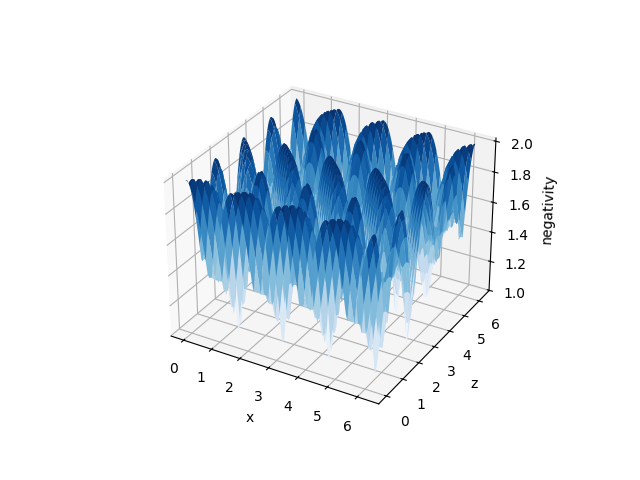
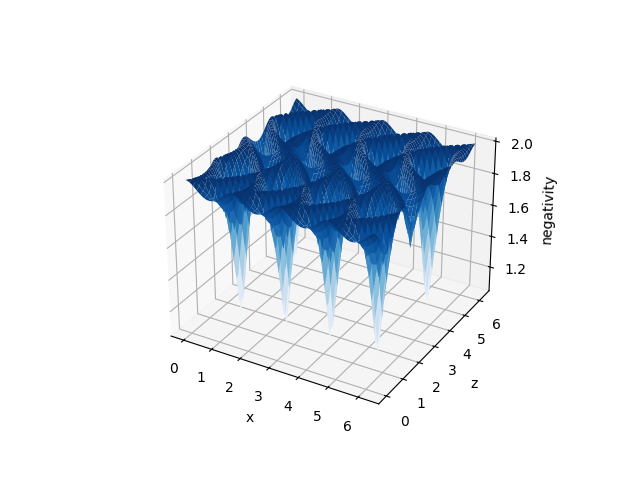
Add files via upload

diff --git a/QPR test 06-04-2025/Rotated.py b/QPR test 06-04-2025/Rotated.py
@@ -14,15 +14,15 @@ dual = total[4:]
 Hadamard = (1/np.sqrt(2)) * np.array([[1,1], [1,-1]])
 
 x, y, z = syp.symbols('x y z')
-j = 1j
-I = j
 def cos(x):
     return np.cos(x)
 def sin(x):
     return np.sin(x)
 def exp(x):
     return np.exp(x)
-
+'''
+j = 1j
+I = j
 rotation_x = syp.exp( -j*x* wig.X(2)/2 )
 rotation_y = syp.exp( -j*y* j*wig.X(2)@wig.Z(2)/2 )
 rotation_z = syp.exp( -j*z* wig.Z(2)/2)
@@ -60,7 +60,7 @@ check0 = syp.simplify(np.trace(dual_new[0]))
 check1 = syp.simplify(np.trace(dual_new[1]))
 check2 = syp.simplify(np.trace(dual_new[2]))
 check3 = syp.simplify(np.trace(dual_new[3]))
-'''
+
 QPRu_Hadamard_new = []
 for frame in tqdm(frame_new):
     row = []
@@ -71,8 +71,9 @@ for frame in tqdm(frame_new):
     print()
 test = np.array(QPRu_Hadamard_new)
 '''
-x = np.arange(0, 2*np.pi, 0.05)
-z = np.arange(0, 2*np.pi, 0.05)
+I = 1j
+x = np.arange(0, 2*np.pi, np.pi/50)
+z = np.arange(0, 2*np.pi, np.pi/50)
 x,z = np.meshgrid(x,z)
 H00 = (0.1875*I*(cos(2*x) - 1)*exp(4.0*I*z) - 0.1875*I*(cos(2*x) - 1)*exp(6.0*I*z) - 0.125*I*exp(3.0*I*z)*sin(x/2)**4 + 0.25*(1 + I)*exp(3.0*I*z)*sin(x/2)**3*cos(x/2) - 1.0*(0.25 - 0.25*I)*exp(3.0*I*z)*sin(x/2)*cos(x/2)**3 + 0.125*I*exp(3.0*I*z)*cos(x/2)**4 + 0.25*(-1 + I)*exp(4.0*I*z)*sin(x/2)**4 - 0.5*exp(4.0*I*z)*sin(x/2)**3*cos(x/2) - 0.5*exp(4.0*I*z)*sin(x/2)*cos(x/2)**3 + (0.25 + 0.25*I)*exp(4.0*I*z)*cos(x/2)**4 + 0.5*exp(5.0*I*z)*sin(x/2)**3*cos(x/2) - 0.5*exp(5.0*I*z)*sin(x/2)*cos(x/2)**3 - (0.25 + 0.25*I)*exp(6.0*I*z)*sin(x/2)**4 - 0.5*exp(6.0*I*z)*sin(x/2)**3*cos(x/2) - 0.5*exp(6.0*I*z)*sin(x/2)*cos(x/2)**3 + 0.25*(1 - I)*exp(6.0*I*z)*cos(x/2)**4 + 0.125*I*exp(7.0*I*z)*sin(x/2)**4 + 1.0*(0.25 - 0.25*I)*exp(7.0*I*z)*sin(x/2)**3*cos(x/2) - 0.25*(1 + I)*exp(7.0*I*z)*sin(x/2)*cos(x/2)**3 - 0.125*I*exp(7.0*I*z)*cos(x/2)**4)*exp(-5.0*I*z)
 H01 = (-0.03125*(cos(2*x) - 1)*exp(3.0*I*z) - 0.1875*I*(cos(2*x) - 1)*exp(4.0*I*z) - 0.0625*(cos(2*x) - 1)*exp(5.0*I*z) + 0.1875*I*(cos(2*x) - 1)*exp(6.0*I*z) - 0.03125*(cos(2*x) - 1)*exp(7.0*I*z) + 0.125*exp(3.0*I*z)*sin(x/2)**4 - 0.25*exp(3.0*I*z)*sin(x/2)**3*cos(x/2) + 0.25*exp(3.0*I*z)*sin(x/2)*cos(x/2)**3 + 0.125*exp(3.0*I*z)*cos(x/2)**4 - 0.25*I*exp(4.0*I*z)*sin(x/2)**4 - 0.25*I*exp(4.0*I*z)*cos(x/2)**4 + 0.25*exp(5.0*I*z)*sin(x/2)**4 - 0.5*exp(5.0*I*z)*sin(x/2)**3*cos(x/2) + 0.5*exp(5.0*I*z)*sin(x/2)*cos(x/2)**3 + 0.25*exp(5.0*I*z)*cos(x/2)**4 + 0.25*I*exp(6.0*I*z)*sin(x/2)**4 + 0.25*I*exp(6.0*I*z)*cos(x/2)**4 + 0.125*exp(7.0*I*z)*sin(x/2)**4 - 0.25*exp(7.0*I*z)*sin(x/2)**3*cos(x/2) + 0.25*exp(7.0*I*z)*sin(x/2)*cos(x/2)**3 + 0.125*exp(7.0*I*z)*cos(x/2)**4)*exp(-5.0*I*z)
@@ -90,9 +91,6 @@ H30 = (-0.03125*(cos(2*x) - 1)*exp(3.0*I*z) - 0.03125*(cos(2*x) - 1)*exp(7.0*I*z
 H31 = (0.0625*(cos(2*x) - 1)*exp(3.0*I*z) + 0.0625*(cos(2*x) - 1)*exp(7.0*I*z) - 0.125*I*exp(3.0*I*z)*sin(x/2)**4 + 0.125*I*exp(3.0*I*z)*cos(x/2)**4 - 1.0*(0.5 + 1.0*I)*exp(4.0*I*z)*sin(x/2)**3*cos(x/2) - 1.0*(0.5 - 1.0*I)*exp(4.0*I*z)*sin(x/2)*cos(x/2)**3 + 0.5*exp(5.0*I*z)*sin(x/2)**4 + 0.5*exp(5.0*I*z)*cos(x/2)**4 - 1.0*(0.5 - 1.0*I)*exp(6.0*I*z)*sin(x/2)**3*cos(x/2) - 1.0*(0.5 + 1.0*I)*exp(6.0*I*z)*sin(x/2)*cos(x/2)**3 + 0.125*I*exp(7.0*I*z)*sin(x/2)**4 - 0.125*I*exp(7.0*I*z)*cos(x/2)**4)*exp(-5.0*I*z)
 H32 = (-0.03125*(cos(2*x) - 1)*exp(3.0*I*z) + 0.1875*I*(cos(2*x) - 1)*exp(4.0*I*z) - 0.1875*I*(cos(2*x) - 1)*exp(6.0*I*z) - 0.03125*(cos(2*x) - 1)*exp(7.0*I*z) + 0.125*exp(3.0*I*z)*sin(x/2)**4 + 0.25*exp(3.0*I*z)*sin(x/2)**3*cos(x/2) - 0.25*exp(3.0*I*z)*sin(x/2)*cos(x/2)**3 + 0.125*exp(3.0*I*z)*cos(x/2)**4 + 0.25*I*exp(4.0*I*z)*sin(x/2)**4 + 0.25*I*exp(4.0*I*z)*cos(x/2)**4 + 0.25*exp(5.0*I*z)*sin(x/2)**4 + 0.5*exp(5.0*I*z)*sin(x/2)**3*cos(x/2) - 0.5*exp(5.0*I*z)*sin(x/2)*cos(x/2)**3 + 0.125*exp(5.0*I*z)*sin(x)**2 + 0.25*exp(5.0*I*z)*cos(x/2)**4 - 0.25*I*exp(6.0*I*z)*sin(x/2)**4 - 0.25*I*exp(6.0*I*z)*cos(x/2)**4 + 0.125*exp(7.0*I*z)*sin(x/2)**4 + 0.25*exp(7.0*I*z)*sin(x/2)**3*cos(x/2) - 0.25*exp(7.0*I*z)*sin(x/2)*cos(x/2)**3 + 0.125*exp(7.0*I*z)*cos(x/2)**4)*exp(-5.0*I*z)
 H33 = (0.1875*I*(cos(2*x) - 1)*exp(6.0*I*z) + 0.125*I*exp(3.0*I*z)*sin(x/2)**4 - 0.25*(1 - I)*exp(3.0*I*z)*sin(x/2)**3*cos(x/2) + 1.0*(0.25 + 0.25*I)*exp(3.0*I*z)*sin(x/2)*cos(x/2)**3 - 0.125*I*exp(3.0*I*z)*cos(x/2)**4 - 0.25*(1 + I)*exp(4.0*I*z)*sin(x/2)**4 + 0.5*exp(4.0*I*z)*sin(x/2)**3*cos(x/2) + 0.5*exp(4.0*I*z)*sin(x/2)*cos(x/2)**3 + 0.375*I*exp(4.0*I*z)*sin(x)**2 + (0.25 - 0.25*I)*exp(4.0*I*z)*cos(x/2)**4 - 0.5*exp(5.0*I*z)*sin(x/2)**3*cos(x/2) + 0.5*exp(5.0*I*z)*sin(x/2)*cos(x/2)**3 + (-0.25 + 0.25*I)*exp(6.0*I*z)*sin(x/2)**4 + 0.5*exp(6.0*I*z)*sin(x/2)**3*cos(x/2) + 0.5*exp(6.0*I*z)*sin(x/2)*cos(x/2)**3 + 0.25*(1 + I)*exp(6.0*I*z)*cos(x/2)**4 - 0.125*I*exp(7.0*I*z)*sin(x/2)**4 - 1.0*(0.25 + 0.25*I)*exp(7.0*I*z)*sin(x/2)**3*cos(x/2) + 0.25*(1 - I)*exp(7.0*I*z)*sin(x/2)*cos(x/2)**3 + 0.125*I*exp(7.0*I*z)*cos(x/2)**4)*exp(-5.0*I*z)
-# H01 = H10
-#col0 = syp.simplify(abs(H00) + abs(H10))
-#col1 = syp.simplify(abs(H01) + abs(H11))
 col0 = abs(H00) + abs(H10) + abs(H20) + abs(H30)
 col1 = abs(H01) + abs(H11) + abs(H21) + abs(H31)
 col2 = abs(H02) + abs(H12) + abs(H22) + abs(H32)
@@ -102,7 +100,7 @@ size = np.shape(col0)
 for i in range(size[0]):
     row = []
     for j in range(size[1]):
-        row.append(min(col0[i][j], col1[i][j], col2[i][j], col3[i][j]))
+        row.append(max(col0[i][j], col1[i][j], col2[i][j], col3[i][j]))
     neg.append(row)
 neg = np.array(neg)
 
@@ -114,6 +112,76 @@ ax.set(xlabel = 'x',
        zlabel = 'negativity')
 
 plt.show()
+minimums = []
 for row in neg:
+    minimums.append(min(row))
     print(min(row))
+print(min(minimums))
+#1.0627905195293132 lowest
+#x 12/13, z 25
 
+x = 12.5*np.pi/50
+z = 25*np.pi/50
+H00 = (0.1875*I*(cos(2*x) - 1)*exp(4.0*I*z) - 0.1875*I*(cos(2*x) - 1)*exp(6.0*I*z) - 0.125*I*exp(3.0*I*z)*sin(x/2)**4 + 0.25*(1 + I)*exp(3.0*I*z)*sin(x/2)**3*cos(x/2) - 1.0*(0.25 - 0.25*I)*exp(3.0*I*z)*sin(x/2)*cos(x/2)**3 + 0.125*I*exp(3.0*I*z)*cos(x/2)**4 + 0.25*(-1 + I)*exp(4.0*I*z)*sin(x/2)**4 - 0.5*exp(4.0*I*z)*sin(x/2)**3*cos(x/2) - 0.5*exp(4.0*I*z)*sin(x/2)*cos(x/2)**3 + (0.25 + 0.25*I)*exp(4.0*I*z)*cos(x/2)**4 + 0.5*exp(5.0*I*z)*sin(x/2)**3*cos(x/2) - 0.5*exp(5.0*I*z)*sin(x/2)*cos(x/2)**3 - (0.25 + 0.25*I)*exp(6.0*I*z)*sin(x/2)**4 - 0.5*exp(6.0*I*z)*sin(x/2)**3*cos(x/2) - 0.5*exp(6.0*I*z)*sin(x/2)*cos(x/2)**3 + 0.25*(1 - I)*exp(6.0*I*z)*cos(x/2)**4 + 0.125*I*exp(7.0*I*z)*sin(x/2)**4 + 1.0*(0.25 - 0.25*I)*exp(7.0*I*z)*sin(x/2)**3*cos(x/2) - 0.25*(1 + I)*exp(7.0*I*z)*sin(x/2)*cos(x/2)**3 - 0.125*I*exp(7.0*I*z)*cos(x/2)**4)*exp(-5.0*I*z)
+H01 = (-0.03125*(cos(2*x) - 1)*exp(3.0*I*z) - 0.1875*I*(cos(2*x) - 1)*exp(4.0*I*z) - 0.0625*(cos(2*x) - 1)*exp(5.0*I*z) + 0.1875*I*(cos(2*x) - 1)*exp(6.0*I*z) - 0.03125*(cos(2*x) - 1)*exp(7.0*I*z) + 0.125*exp(3.0*I*z)*sin(x/2)**4 - 0.25*exp(3.0*I*z)*sin(x/2)**3*cos(x/2) + 0.25*exp(3.0*I*z)*sin(x/2)*cos(x/2)**3 + 0.125*exp(3.0*I*z)*cos(x/2)**4 - 0.25*I*exp(4.0*I*z)*sin(x/2)**4 - 0.25*I*exp(4.0*I*z)*cos(x/2)**4 + 0.25*exp(5.0*I*z)*sin(x/2)**4 - 0.5*exp(5.0*I*z)*sin(x/2)**3*cos(x/2) + 0.5*exp(5.0*I*z)*sin(x/2)*cos(x/2)**3 + 0.25*exp(5.0*I*z)*cos(x/2)**4 + 0.25*I*exp(6.0*I*z)*sin(x/2)**4 + 0.25*I*exp(6.0*I*z)*cos(x/2)**4 + 0.125*exp(7.0*I*z)*sin(x/2)**4 - 0.25*exp(7.0*I*z)*sin(x/2)**3*cos(x/2) + 0.25*exp(7.0*I*z)*sin(x/2)*cos(x/2)**3 + 0.125*exp(7.0*I*z)*cos(x/2)**4)*exp(-5.0*I*z)
+H02 = (0.0625*(cos(2*x) - 1)*exp(3.0*I*z) + 0.0625*(cos(2*x) - 1)*exp(7.0*I*z) + 0.125*I*exp(3.0*I*z)*sin(x/2)**4 - 0.125*I*exp(3.0*I*z)*cos(x/2)**4 + 1.0*(0.5 - 1.0*I)*exp(4.0*I*z)*sin(x/2)**3*cos(x/2) + 1.0*(0.5 + 1.0*I)*exp(4.0*I*z)*sin(x/2)*cos(x/2)**3 + 0.5*exp(5.0*I*z)*sin(x/2)**4 + 0.5*exp(5.0*I*z)*cos(x/2)**4 + 1.0*(0.5 + 1.0*I)*exp(6.0*I*z)*sin(x/2)**3*cos(x/2) + 1.0*(0.5 - 1.0*I)*exp(6.0*I*z)*sin(x/2)*cos(x/2)**3 - 0.125*I*exp(7.0*I*z)*sin(x/2)**4 + 0.125*I*exp(7.0*I*z)*cos(x/2)**4)*exp(-5.0*I*z)
+H03 = (-0.03125*(cos(2*x) - 1)*exp(3.0*I*z) - 0.03125*(cos(2*x) - 1)*exp(7.0*I*z) - 0.125*exp(3.0*I*z)*sin(x/2)**4 - 0.25*I*exp(3.0*I*z)*sin(x/2)**3*cos(x/2) - 0.25*I*exp(3.0*I*z)*sin(x/2)*cos(x/2)**3 - 0.125*exp(3.0*I*z)*cos(x/2)**4 + 0.25*exp(4.0*I*z)*sin(x/2)**4 + 1.0*I*exp(4.0*I*z)*sin(x/2)**3*cos(x/2) - 1.0*I*exp(4.0*I*z)*sin(x/2)*cos(x/2)**3 - 0.25*exp(4.0*I*z)*cos(x/2)**4 + 0.25*exp(5.0*I*z)*sin(x/2)**4 + 0.375*exp(5.0*I*z)*sin(x)**2 + 0.25*exp(5.0*I*z)*cos(x/2)**4 + 0.25*exp(6.0*I*z)*sin(x/2)**4 - 1.0*I*exp(6.0*I*z)*sin(x/2)**3*cos(x/2) + 1.0*I*exp(6.0*I*z)*sin(x/2)*cos(x/2)**3 - 0.25*exp(6.0*I*z)*cos(x/2)**4 - 0.125*exp(7.0*I*z)*sin(x/2)**4 + 0.25*I*exp(7.0*I*z)*sin(x/2)**3*cos(x/2) + 0.25*I*exp(7.0*I*z)*sin(x/2)*cos(x/2)**3 - 0.125*exp(7.0*I*z)*cos(x/2)**4)*exp(-5.0*I*z)
+H10 = (-0.03125*(cos(2*x) - 1)*exp(3.0*I*z) - 0.1875*I*(cos(2*x) - 1)*exp(4.0*I*z) - 0.0625*(cos(2*x) - 1)*exp(5.0*I*z) + 0.1875*I*(cos(2*x) - 1)*exp(6.0*I*z) - 0.03125*(cos(2*x) - 1)*exp(7.0*I*z) + 0.125*exp(3.0*I*z)*sin(x/2)**4 - 0.25*exp(3.0*I*z)*sin(x/2)**3*cos(x/2) + 0.25*exp(3.0*I*z)*sin(x/2)*cos(x/2)**3 + 0.125*exp(3.0*I*z)*cos(x/2)**4 - 0.25*I*exp(4.0*I*z)*sin(x/2)**4 - 0.25*I*exp(4.0*I*z)*cos(x/2)**4 + 0.25*exp(5.0*I*z)*sin(x/2)**4 - 0.5*exp(5.0*I*z)*sin(x/2)**3*cos(x/2) + 0.5*exp(5.0*I*z)*sin(x/2)*cos(x/2)**3 + 0.25*exp(5.0*I*z)*cos(x/2)**4 + 0.25*I*exp(6.0*I*z)*sin(x/2)**4 + 0.25*I*exp(6.0*I*z)*cos(x/2)**4 + 0.125*exp(7.0*I*z)*sin(x/2)**4 - 0.25*exp(7.0*I*z)*sin(x/2)**3*cos(x/2) + 0.25*exp(7.0*I*z)*sin(x/2)*cos(x/2)**3 + 0.125*exp(7.0*I*z)*cos(x/2)**4)*exp(-5.0*I*z)
+H11 = (0.1875*I*(cos(2*x) - 1)*exp(4.0*I*z) - 0.1875*I*(cos(2*x) - 1)*exp(6.0*I*z) + 0.125*I*exp(3.0*I*z)*sin(x/2)**4 + 1.0*(0.25 - 0.25*I)*exp(3.0*I*z)*sin(x/2)**3*cos(x/2) - 0.25*(1 + I)*exp(3.0*I*z)*sin(x/2)*cos(x/2)**3 - 0.125*I*exp(3.0*I*z)*cos(x/2)**4 + (0.25 + 0.25*I)*exp(4.0*I*z)*sin(x/2)**4 + 0.5*exp(4.0*I*z)*sin(x/2)**3*cos(x/2) + 0.5*exp(4.0*I*z)*sin(x/2)*cos(x/2)**3 + 0.25*(-1 + I)*exp(4.0*I*z)*cos(x/2)**4 + 0.5*exp(5.0*I*z)*sin(x/2)**3*cos(x/2) - 0.5*exp(5.0*I*z)*sin(x/2)*cos(x/2)**3 + 0.25*(1 - I)*exp(6.0*I*z)*sin(x/2)**4 + 0.5*exp(6.0*I*z)*sin(x/2)**3*cos(x/2) + 0.5*exp(6.0*I*z)*sin(x/2)*cos(x/2)**3 - (0.25 + 0.25*I)*exp(6.0*I*z)*cos(x/2)**4 - 0.125*I*exp(7.0*I*z)*sin(x/2)**4 + 0.25*(1 + I)*exp(7.0*I*z)*sin(x/2)**3*cos(x/2) - 1.0*(0.25 - 0.25*I)*exp(7.0*I*z)*sin(x/2)*cos(x/2)**3 + 0.125*I*exp(7.0*I*z)*cos(x/2)**4)*exp(-5.0*I*z)
+H12 = (-0.03125*(cos(2*x) - 1)*exp(3.0*I*z) - 0.1875*(cos(2*x) - 1)*exp(5.0*I*z) - 0.03125*(cos(2*x) - 1)*exp(7.0*I*z) - 0.125*exp(3.0*I*z)*sin(x/2)**4 + 0.25*I*exp(3.0*I*z)*sin(x/2)**3*cos(x/2) + 0.25*I*exp(3.0*I*z)*sin(x/2)*cos(x/2)**3 - 0.125*exp(3.0*I*z)*cos(x/2)**4 - 0.25*exp(4.0*I*z)*sin(x/2)**4 + 1.0*I*exp(4.0*I*z)*sin(x/2)**3*cos(x/2) - 1.0*I*exp(4.0*I*z)*sin(x/2)*cos(x/2)**3 + 0.25*exp(4.0*I*z)*cos(x/2)**4 + 0.25*exp(5.0*I*z)*sin(x/2)**4 + 0.25*exp(5.0*I*z)*cos(x/2)**4 - 0.25*exp(6.0*I*z)*sin(x/2)**4 - 1.0*I*exp(6.0*I*z)*sin(x/2)**3*cos(x/2) + 1.0*I*exp(6.0*I*z)*sin(x/2)*cos(x/2)**3 + 0.25*exp(6.0*I*z)*cos(x/2)**4 - 0.125*exp(7.0*I*z)*sin(x/2)**4 - 0.25*I*exp(7.0*I*z)*sin(x/2)**3*cos(x/2) - 0.25*I*exp(7.0*I*z)*sin(x/2)*cos(x/2)**3 - 0.125*exp(7.0*I*z)*cos(x/2)**4)*exp(-5.0*I*z)
+H13 = (0.0625*(cos(2*x) - 1)*exp(3.0*I*z) + 0.0625*(cos(2*x) - 1)*exp(7.0*I*z) - 0.125*I*exp(3.0*I*z)*sin(x/2)**4 + 0.125*I*exp(3.0*I*z)*cos(x/2)**4 - 1.0*(0.5 + 1.0*I)*exp(4.0*I*z)*sin(x/2)**3*cos(x/2) - 1.0*(0.5 - 1.0*I)*exp(4.0*I*z)*sin(x/2)*cos(x/2)**3 + 0.5*exp(5.0*I*z)*sin(x/2)**4 + 0.5*exp(5.0*I*z)*cos(x/2)**4 - 1.0*(0.5 - 1.0*I)*exp(6.0*I*z)*sin(x/2)**3*cos(x/2) - 1.0*(0.5 + 1.0*I)*exp(6.0*I*z)*sin(x/2)*cos(x/2)**3 + 0.125*I*exp(7.0*I*z)*sin(x/2)**4 - 0.125*I*exp(7.0*I*z)*cos(x/2)**4)*exp(-5.0*I*z)
+H20 = (0.0625*(cos(2*x) - 1)*exp(3.0*I*z) + 0.0625*(cos(2*x) - 1)*exp(7.0*I*z) + 0.125*I*exp(3.0*I*z)*sin(x/2)**4 - 0.125*I*exp(3.0*I*z)*cos(x/2)**4 + 1.0*(0.5 - 1.0*I)*exp(4.0*I*z)*sin(x/2)**3*cos(x/2) + 1.0*(0.5 + 1.0*I)*exp(4.0*I*z)*sin(x/2)*cos(x/2)**3 + 0.5*exp(5.0*I*z)*sin(x/2)**4 + 0.5*exp(5.0*I*z)*cos(x/2)**4 + 1.0*(0.5 + 1.0*I)*exp(6.0*I*z)*sin(x/2)**3*cos(x/2) + 1.0*(0.5 - 1.0*I)*exp(6.0*I*z)*sin(x/2)*cos(x/2)**3 - 0.125*I*exp(7.0*I*z)*sin(x/2)**4 + 0.125*I*exp(7.0*I*z)*cos(x/2)**4)*exp(-5.0*I*z)
+H21 = (-0.03125*(cos(2*x) - 1)*exp(3.0*I*z) - 0.1875*(cos(2*x) - 1)*exp(5.0*I*z) - 0.03125*(cos(2*x) - 1)*exp(7.0*I*z) - 0.125*exp(3.0*I*z)*sin(x/2)**4 + 0.25*I*exp(3.0*I*z)*sin(x/2)**3*cos(x/2) + 0.25*I*exp(3.0*I*z)*sin(x/2)*cos(x/2)**3 - 0.125*exp(3.0*I*z)*cos(x/2)**4 - 0.25*exp(4.0*I*z)*sin(x/2)**4 + 1.0*I*exp(4.0*I*z)*sin(x/2)**3*cos(x/2) - 1.0*I*exp(4.0*I*z)*sin(x/2)*cos(x/2)**3 + 0.25*exp(4.0*I*z)*cos(x/2)**4 + 0.25*exp(5.0*I*z)*sin(x/2)**4 + 0.25*exp(5.0*I*z)*cos(x/2)**4 - 0.25*exp(6.0*I*z)*sin(x/2)**4 - 1.0*I*exp(6.0*I*z)*sin(x/2)**3*cos(x/2) + 1.0*I*exp(6.0*I*z)*sin(x/2)*cos(x/2)**3 + 0.25*exp(6.0*I*z)*cos(x/2)**4 - 0.125*exp(7.0*I*z)*sin(x/2)**4 - 0.25*I*exp(7.0*I*z)*sin(x/2)**3*cos(x/2) - 0.25*I*exp(7.0*I*z)*sin(x/2)*cos(x/2)**3 - 0.125*exp(7.0*I*z)*cos(x/2)**4)*exp(-5.0*I*z)
+H22 = (-0.1875*I*(cos(2*x) - 1)*exp(4.0*I*z) + 0.1875*I*(cos(2*x) - 1)*exp(6.0*I*z) - 0.125*I*exp(3.0*I*z)*sin(x/2)**4 - 0.25*(1 + I)*exp(3.0*I*z)*sin(x/2)**3*cos(x/2) + 1.0*(0.25 - 0.25*I)*exp(3.0*I*z)*sin(x/2)*cos(x/2)**3 + 0.125*I*exp(3.0*I*z)*cos(x/2)**4 + 0.25*(1 - I)*exp(4.0*I*z)*sin(x/2)**4 - 0.5*exp(4.0*I*z)*sin(x/2)**3*cos(x/2) - 0.5*exp(4.0*I*z)*sin(x/2)*cos(x/2)**3 - (0.25 + 0.25*I)*exp(4.0*I*z)*cos(x/2)**4 - 0.5*exp(5.0*I*z)*sin(x/2)**3*cos(x/2) + 0.5*exp(5.0*I*z)*sin(x/2)*cos(x/2)**3 + (0.25 + 0.25*I)*exp(6.0*I*z)*sin(x/2)**4 - 0.5*exp(6.0*I*z)*sin(x/2)**3*cos(x/2) - 0.5*exp(6.0*I*z)*sin(x/2)*cos(x/2)**3 + 0.25*(-1 + I)*exp(6.0*I*z)*cos(x/2)**4 + 0.125*I*exp(7.0*I*z)*sin(x/2)**4 - 1.0*(0.25 - 0.25*I)*exp(7.0*I*z)*sin(x/2)**3*cos(x/2) + 0.25*(1 + I)*exp(7.0*I*z)*sin(x/2)*cos(x/2)**3 - 0.125*I*exp(7.0*I*z)*cos(x/2)**4)*exp(-5.0*I*z)
+H23 = (-0.03125*(cos(2*x) - 1)*exp(3.0*I*z) + 0.1875*I*(cos(2*x) - 1)*exp(4.0*I*z) - 0.1875*I*(cos(2*x) - 1)*exp(6.0*I*z) - 0.03125*(cos(2*x) - 1)*exp(7.0*I*z) + 0.125*exp(3.0*I*z)*sin(x/2)**4 + 0.25*exp(3.0*I*z)*sin(x/2)**3*cos(x/2) - 0.25*exp(3.0*I*z)*sin(x/2)*cos(x/2)**3 + 0.125*exp(3.0*I*z)*cos(x/2)**4 + 0.25*I*exp(4.0*I*z)*sin(x/2)**4 + 0.25*I*exp(4.0*I*z)*cos(x/2)**4 + 0.25*exp(5.0*I*z)*sin(x/2)**4 + 0.5*exp(5.0*I*z)*sin(x/2)**3*cos(x/2) - 0.5*exp(5.0*I*z)*sin(x/2)*cos(x/2)**3 + 0.125*exp(5.0*I*z)*sin(x)**2 + 0.25*exp(5.0*I*z)*cos(x/2)**4 - 0.25*I*exp(6.0*I*z)*sin(x/2)**4 - 0.25*I*exp(6.0*I*z)*cos(x/2)**4 + 0.125*exp(7.0*I*z)*sin(x/2)**4 + 0.25*exp(7.0*I*z)*sin(x/2)**3*cos(x/2) - 0.25*exp(7.0*I*z)*sin(x/2)*cos(x/2)**3 + 0.125*exp(7.0*I*z)*cos(x/2)**4)*exp(-5.0*I*z)
+H30 = (-0.03125*(cos(2*x) - 1)*exp(3.0*I*z) - 0.03125*(cos(2*x) - 1)*exp(7.0*I*z) - 0.125*exp(3.0*I*z)*sin(x/2)**4 - 0.25*I*exp(3.0*I*z)*sin(x/2)**3*cos(x/2) - 0.25*I*exp(3.0*I*z)*sin(x/2)*cos(x/2)**3 - 0.125*exp(3.0*I*z)*cos(x/2)**4 + 0.25*exp(4.0*I*z)*sin(x/2)**4 + 1.0*I*exp(4.0*I*z)*sin(x/2)**3*cos(x/2) - 1.0*I*exp(4.0*I*z)*sin(x/2)*cos(x/2)**3 - 0.25*exp(4.0*I*z)*cos(x/2)**4 + 0.25*exp(5.0*I*z)*sin(x/2)**4 + 0.375*exp(5.0*I*z)*sin(x)**2 + 0.25*exp(5.0*I*z)*cos(x/2)**4 + 0.25*exp(6.0*I*z)*sin(x/2)**4 - 1.0*I*exp(6.0*I*z)*sin(x/2)**3*cos(x/2) + 1.0*I*exp(6.0*I*z)*sin(x/2)*cos(x/2)**3 - 0.25*exp(6.0*I*z)*cos(x/2)**4 - 0.125*exp(7.0*I*z)*sin(x/2)**4 + 0.25*I*exp(7.0*I*z)*sin(x/2)**3*cos(x/2) + 0.25*I*exp(7.0*I*z)*sin(x/2)*cos(x/2)**3 - 0.125*exp(7.0*I*z)*cos(x/2)**4)*exp(-5.0*I*z)
+H31 = (0.0625*(cos(2*x) - 1)*exp(3.0*I*z) + 0.0625*(cos(2*x) - 1)*exp(7.0*I*z) - 0.125*I*exp(3.0*I*z)*sin(x/2)**4 + 0.125*I*exp(3.0*I*z)*cos(x/2)**4 - 1.0*(0.5 + 1.0*I)*exp(4.0*I*z)*sin(x/2)**3*cos(x/2) - 1.0*(0.5 - 1.0*I)*exp(4.0*I*z)*sin(x/2)*cos(x/2)**3 + 0.5*exp(5.0*I*z)*sin(x/2)**4 + 0.5*exp(5.0*I*z)*cos(x/2)**4 - 1.0*(0.5 - 1.0*I)*exp(6.0*I*z)*sin(x/2)**3*cos(x/2) - 1.0*(0.5 + 1.0*I)*exp(6.0*I*z)*sin(x/2)*cos(x/2)**3 + 0.125*I*exp(7.0*I*z)*sin(x/2)**4 - 0.125*I*exp(7.0*I*z)*cos(x/2)**4)*exp(-5.0*I*z)
+H32 = (-0.03125*(cos(2*x) - 1)*exp(3.0*I*z) + 0.1875*I*(cos(2*x) - 1)*exp(4.0*I*z) - 0.1875*I*(cos(2*x) - 1)*exp(6.0*I*z) - 0.03125*(cos(2*x) - 1)*exp(7.0*I*z) + 0.125*exp(3.0*I*z)*sin(x/2)**4 + 0.25*exp(3.0*I*z)*sin(x/2)**3*cos(x/2) - 0.25*exp(3.0*I*z)*sin(x/2)*cos(x/2)**3 + 0.125*exp(3.0*I*z)*cos(x/2)**4 + 0.25*I*exp(4.0*I*z)*sin(x/2)**4 + 0.25*I*exp(4.0*I*z)*cos(x/2)**4 + 0.25*exp(5.0*I*z)*sin(x/2)**4 + 0.5*exp(5.0*I*z)*sin(x/2)**3*cos(x/2) - 0.5*exp(5.0*I*z)*sin(x/2)*cos(x/2)**3 + 0.125*exp(5.0*I*z)*sin(x)**2 + 0.25*exp(5.0*I*z)*cos(x/2)**4 - 0.25*I*exp(6.0*I*z)*sin(x/2)**4 - 0.25*I*exp(6.0*I*z)*cos(x/2)**4 + 0.125*exp(7.0*I*z)*sin(x/2)**4 + 0.25*exp(7.0*I*z)*sin(x/2)**3*cos(x/2) - 0.25*exp(7.0*I*z)*sin(x/2)*cos(x/2)**3 + 0.125*exp(7.0*I*z)*cos(x/2)**4)*exp(-5.0*I*z)
+H33 = (0.1875*I*(cos(2*x) - 1)*exp(6.0*I*z) + 0.125*I*exp(3.0*I*z)*sin(x/2)**4 - 0.25*(1 - I)*exp(3.0*I*z)*sin(x/2)**3*cos(x/2) + 1.0*(0.25 + 0.25*I)*exp(3.0*I*z)*sin(x/2)*cos(x/2)**3 - 0.125*I*exp(3.0*I*z)*cos(x/2)**4 - 0.25*(1 + I)*exp(4.0*I*z)*sin(x/2)**4 + 0.5*exp(4.0*I*z)*sin(x/2)**3*cos(x/2) + 0.5*exp(4.0*I*z)*sin(x/2)*cos(x/2)**3 + 0.375*I*exp(4.0*I*z)*sin(x)**2 + (0.25 - 0.25*I)*exp(4.0*I*z)*cos(x/2)**4 - 0.5*exp(5.0*I*z)*sin(x/2)**3*cos(x/2) + 0.5*exp(5.0*I*z)*sin(x/2)*cos(x/2)**3 + (-0.25 + 0.25*I)*exp(6.0*I*z)*sin(x/2)**4 + 0.5*exp(6.0*I*z)*sin(x/2)**3*cos(x/2) + 0.5*exp(6.0*I*z)*sin(x/2)*cos(x/2)**3 + 0.25*(1 + I)*exp(6.0*I*z)*cos(x/2)**4 - 0.125*I*exp(7.0*I*z)*sin(x/2)**4 - 1.0*(0.25 + 0.25*I)*exp(7.0*I*z)*sin(x/2)**3*cos(x/2) + 0.25*(1 - I)*exp(7.0*I*z)*sin(x/2)*cos(x/2)**3 + 0.125*I*exp(7.0*I*z)*cos(x/2)**4)*exp(-5.0*I*z)
+col0 = abs(H00) + abs(H10) + abs(H20) + abs(H30)
+col1 = abs(H01) + abs(H11) + abs(H21) + abs(H31)
+col2 = abs(H02) + abs(H12) + abs(H22) + abs(H32)
+col3 = abs(H03) + abs(H13) + abs(H23) + abs(H33)
+nef = max(col0, col1, col2, col3)
+#1.0000000000000002
+#x = pi/4, z = pi/2
+
+xbest = np.array([[np.cos(np.pi/8), 1j*np.sin(np.pi/8)],
+                  [1j*np.sin(np.pi/8), np.cos(np.pi/8)]])
+xbestd = np.array([[np.cos(np.pi/8), -1j*np.sin(np.pi/8)],
+                  [-1j*np.sin(np.pi/8), np.cos(np.pi/8)]])
+
+zbest = np.array([[np.exp(1j*np.pi/4), 0],
+                  [0, np.exp(-1j*np.pi/4)]])
+zbestd = np.array([[np.exp(-1j*np.pi/4), 0],
+                  [0, np.exp(1j*np.pi/4)]])
+
+frame_new = []
+dual_new = []
+for entry in frame:
+    frame_new.append(zbest @ xbest @ entry @ xbestd @ zbestd)
+for entry in dual:
+    dual_new.append(zbest @ xbest @ entry @ xbestd @ zbestd)
+
+test0 = frame_new[0]
+test1 = frame_new[1]
+test2 = frame_new[2]
+test3 = frame_new[3]
+ftot = test0 + test1 + test2 + test3
+#for entry in ftot:
+#   print( syp.simplify(entry) )
+
+check0 = np.trace(dual_new[0])
+check1 = np.trace(dual_new[1])
+check2 = np.trace(dual_new[2])
+check3 = np.trace(dual_new[3])
+
+QPRu_Hadamard_new = []
+for frame in tqdm(frame_new):
+    row = []
+    for dual in dual_new:
+        entry = np.trace(frame @ Hadamard @ dual @ Hadamard) 
+        row.append(syp.simplify(entry))
+    QPRu_Hadamard_new.append(row)
+    print()
+test = np.array(QPRu_Hadamard_new)
